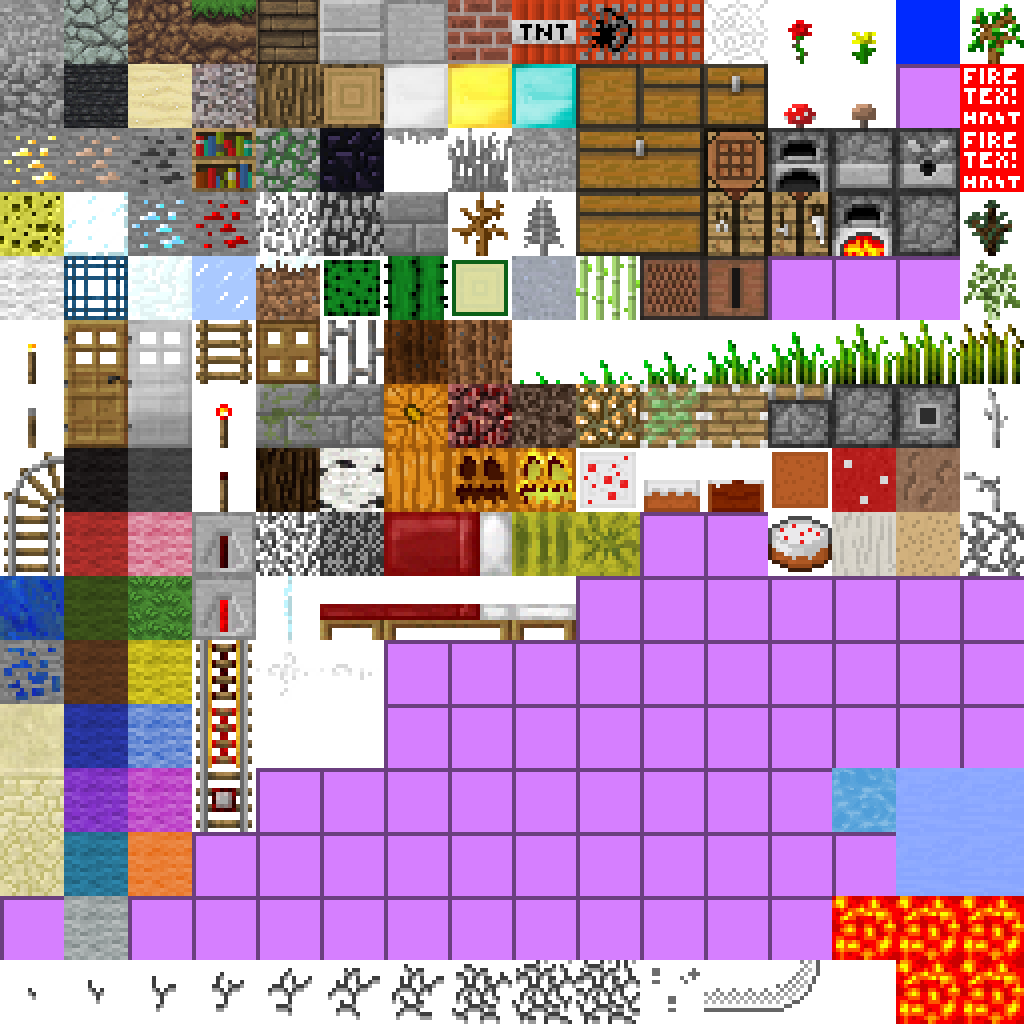
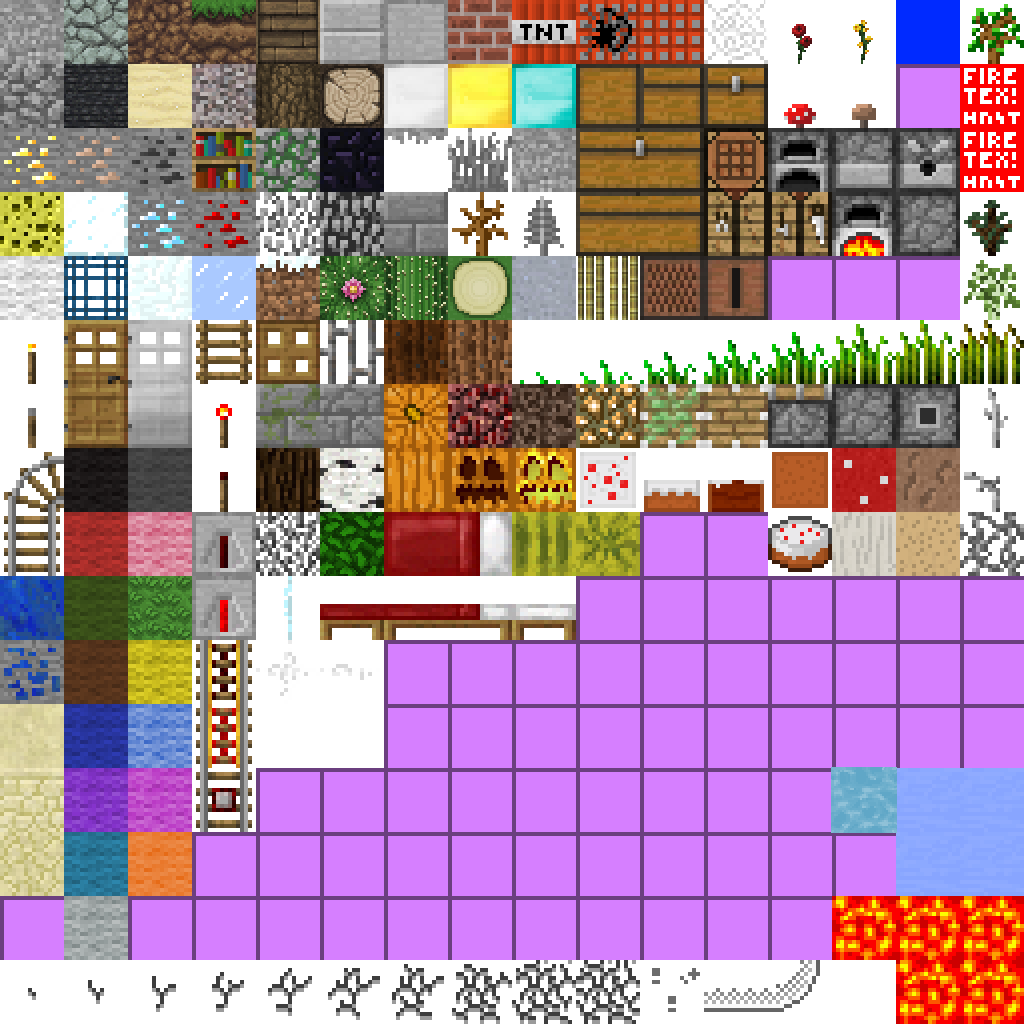
Added starter Vegetation Generation

diff --git a/src/minecraftrenderer/Chunk.java b/src/minecraftrenderer/Chunk.java
@@ -56,11 +56,11 @@ public class Chunk {
         for(int x = 0; x < CHUNK_SIZE; x++) {
             for(int y = 0; y < CHUNK_SIZE; y++) {
                 for(int z = 0; z < CHUNK_SIZE; z++) {
-                    if (y == 0) {
+                    if (y <= 2) {
                         Blocks[x][y][z] = new Block(Block.BlockType.BlockType_Bedrock);
-                    } else if ((y < (CHUNK_SIZE / 4)) && (y >= 1)) {
+                    } else if ((y < (CHUNK_SIZE / 4)) && (y >= 3)) {
                         Blocks[x][y][z] = new Block(Block.BlockType.BlockType_Stone);
-                    }  else if ((y < CHUNK_SIZE)  && (y >= (CHUNK_SIZE / 4))) {
+                    } else if ((y < CHUNK_SIZE)  && (y >= (CHUNK_SIZE / 4))) {
                         Blocks[x][y][z] = new Block(Block.BlockType.BlockType_Dirt);
                     } else {
                         Blocks[x][y][z] = new Block(Block.BlockType.BlockType_Bedrock);
@@ -149,8 +149,9 @@ public class Chunk {
                         }
                     } else if (maxHeight < sandLevel && y > maxHeight - 8) {
                         for (float i = y; i <= maxHeight; i++) {
-                            Blocks[(int) x][(int) i][(int) z].setID(Block.BlockType.BlockType_Sand);
                             
+                            Blocks[(int) x][(int) i][(int) z].setID(Block.BlockType.BlockType_Sand);  
+
                             VertexPositionData.put(createCube(
                                 (float) (startX + x * CUBE_LENGTH),
                                 (float) (i * CUBE_LENGTH + (int) (CHUNK_SIZE * .8)),
@@ -159,9 +160,17 @@ public class Chunk {
                                 Blocks[(int) x][(int) i][(int) z])));
                             VertexTextureData.put(createTexCube((float) 0, (float) 0,
                                 Blocks[(int) x][(int) i][(int) z]));
+                            
+                            if((i == sandLevel - 1 || i == sandLevel - 2) && (r.nextInt(750) + 1 == 1)) {
+                                buildCactus((int) x,(int) y + 1,(int) z, Blocks, VertexPositionData, VertexColorData, VertexTextureData); 
+                            }
                         }
-                    }else if (y > maxHeight-1) {
+                    } else if (y > maxHeight-1) {
                         Blocks[(int) x][(int) y][(int) z].setID(Block.BlockType.BlockType_Grass);
+                        
+                        if(r.nextInt(500) + 1 == 1) {
+                            buildTree((int) x,(int) y + 1,(int) z, Blocks, VertexPositionData, VertexColorData, VertexTextureData);
+                        }
                     }
                     
                     VertexPositionData.put(createCube(
@@ -189,6 +198,149 @@ public class Chunk {
         glBindBuffer(GL_ARRAY_BUFFER, VBOTextureHandle);
         glBufferData(GL_ARRAY_BUFFER, VertexTextureData, GL_STATIC_DRAW);
         glBindBuffer(GL_ARRAY_BUFFER, 0);
+    }
+    
+    // method: buildTree
+    // purpose: this method spawns a tree at the given location
+    private void buildTree(int x, int y, int z, Block[][][] Blocks, FloatBuffer VertexPositionData, FloatBuffer VertexColorData, FloatBuffer VertexTextureData) {
+        
+        int xOffset = 0, zOffset = 0;
+        Random r = new Random();
+        
+        if(r.nextInt(100) >= 40) {
+            
+            // Large Tree
+            for(int i = y; i <= y + 6; i++) {
+
+                if(i >= y + 3) {
+
+                    if(i == y + 3 || i == y + 4) {
+                        xOffset = -2;
+                        zOffset = -2;
+                    } else if(i == y + 5 || i == y + 6) {
+                        xOffset = -1;
+                        zOffset = -1;
+                    }
+
+                    for(int j = xOffset; j <= xOffset * -1; j++) {
+
+                        if(x + j < 0 || x + j > 99)
+                            continue;
+
+                        for(int k = zOffset; k <= zOffset * -1; k++) {
+
+                            if(z + k < 0 || z + k > 99)
+                                continue;
+                            if(i == y + 3) {
+                                if((j == -2 && k == -2) || (j == 2 && k == -2) || (j == -2 && k == 2) || (j == 2 && k == 2))
+                                    continue;
+                            }
+                            if(i == y + 6) {
+                                if((j == -1 && k == -1) || (j == 1 && k == -1) || (j == -1 && k == 1) || (j == 1 && k == 1))
+                                    continue;
+                            }
+
+                            Blocks[(int) x + j][(int) i][(int) z + k].setID(Block.BlockType.BlockType_Leaf);
+
+                            VertexPositionData.put(createCube(
+                                (float) (startX + (x + j) * CUBE_LENGTH),
+                                (float) (i * CUBE_LENGTH + (int) (CHUNK_SIZE * .8)),
+                                (float) (startZ + (z + k) * CUBE_LENGTH)));
+                            VertexColorData.put(createCubeVertexCol(getCubeColor(
+                                Blocks[(int) x + j][(int) i][(int) z + k])));
+                            VertexTextureData.put(createTexCube((float) 0, (float) 0,
+                                Blocks[(int) x + j][(int) i][(int) z + k]));
+                        }
+                    }
+                }
+
+                Blocks[(int) x][(int) i][(int) z].setID(Block.BlockType.BlockType_Log);    
+
+                VertexPositionData.put(createCube(
+                    (float) (startX + x * CUBE_LENGTH),
+                    (float) (i * CUBE_LENGTH + (int) (CHUNK_SIZE * .8)),
+                    (float) (startZ + z * CUBE_LENGTH)));
+                VertexColorData.put(createCubeVertexCol(getCubeColor(
+                    Blocks[(int) x][(int) i][(int) z])));
+                VertexTextureData.put(createTexCube((float) 0, (float) 0,
+                    Blocks[(int) x][(int) i][(int) z])); 
+            }    
+        } else {
+
+            // Small Tree
+            for(int i = y; i <= y + 4; i++) {
+
+                if(i >= y + 2) {
+
+                    if(i == y + 2 || i == y + 3) {
+                        xOffset = -1;
+                        zOffset = -1;
+                    } else if(i == y + 4) {
+                        xOffset = 0;
+                        zOffset = 0;
+                    }
+
+                    for(int j = xOffset; j <= xOffset * -1; j++) {
+
+                        if(x + j < 0 || x + j > 99)
+                            continue;
+
+                        for(int k = zOffset; k <= zOffset * -1; k++) {
+
+                            if(z + k < 0 || z + k > 99)
+                                continue;
+                            if(i == y + 2) {
+                                if((j == -1 && k == -1) || (j == 1 && k == -1) || (j == -1 && k == 1) || (j == 1 && k == 1))
+                                    continue;
+                            }
+                            if(i == y + 6) {
+                                if((j == -1 && k == -1) || (j == 1 && k == -1) || (j == -1 && k == 1) || (j == 1 && k == 1))
+                                    continue;
+                            }
+
+                            Blocks[(int) x + j][(int) i][(int) z + k].setID(Block.BlockType.BlockType_Leaf);
+
+                            VertexPositionData.put(createCube(
+                                (float) (startX + (x + j) * CUBE_LENGTH),
+                                (float) (i * CUBE_LENGTH + (int) (CHUNK_SIZE * .8)),
+                                (float) (startZ + (z + k) * CUBE_LENGTH)));
+                            VertexColorData.put(createCubeVertexCol(getCubeColor(
+                                Blocks[(int) x + j][(int) i][(int) z + k])));
+                            VertexTextureData.put(createTexCube((float) 0, (float) 0,
+                                Blocks[(int) x + j][(int) i][(int) z + k]));
+                        }
+                    }
+                }
+
+                Blocks[(int) x][(int) i][(int) z].setID(Block.BlockType.BlockType_Log);    
+
+                VertexPositionData.put(createCube(
+                    (float) (startX + x * CUBE_LENGTH),
+                    (float) (i * CUBE_LENGTH + (int) (CHUNK_SIZE * .8)),
+                    (float) (startZ + z * CUBE_LENGTH)));
+                VertexColorData.put(createCubeVertexCol(getCubeColor(
+                    Blocks[(int) x][(int) i][(int) z])));
+                VertexTextureData.put(createTexCube((float) 0, (float) 0,
+                    Blocks[(int) x][(int) i][(int) z])); 
+            }    
+        }
+    }
+    
+    private void buildCactus(int x, int y, int z, Block[][][] Blocks, FloatBuffer VertexPositionData, FloatBuffer VertexColorData, FloatBuffer VertexTextureData) {
+        
+        for(int i = y; i < y + 3; i++) {
+                
+            Blocks[(int) x][(int) i][(int) z].setID(Block.BlockType.BlockType_Cactus);
+
+            VertexPositionData.put(createCube(
+                (float) (startX + x * CUBE_LENGTH),
+                (float) (i * CUBE_LENGTH + (int) (CHUNK_SIZE * .8)),
+                (float) (startZ + z * CUBE_LENGTH)));
+            VertexColorData.put(createCubeVertexCol(getCubeColor(
+                Blocks[(int) x][(int) i][(int) z])));
+            VertexTextureData.put(createTexCube((float) 0, (float) 0,
+                Blocks[(int) x][(int) i][(int) z]));      
+        }              
     }
     
     // method: createCubeVertexCol
@@ -255,7 +407,7 @@ public class Chunk {
     public static float[] createTexCube(float x, float y, Block block) {
         
         float offset = (1024f/16) / 1024f;
-        float clip = 0.0075f;
+        float clip = 0.00095f;
         
         switch(block.getID()) {
 
@@ -468,7 +620,112 @@ public class Chunk {
                     x + offset*2 - clip, y + offset*2 - clip,
                     x + offset*1 + clip, y + offset*2 - clip
                 };
-                    
+                
+            // Log
+            case 6:
+                return new float[] {
+                    // BOTTOM QUAD (DOWN=+Y)
+                    x + offset*6 - clip, y + offset*2 - clip,
+                    x + offset*5 + clip, y + offset*2 - clip,
+                    x + offset*5 + clip, y + offset*1 + clip,
+                    x + offset*6 - clip, y + offset*1 + clip,
+                    // TOP
+                    x + offset*6 - clip, y + offset*2 - clip,
+                    x + offset*5 + clip, y + offset*2 - clip,
+                    x + offset*5 + clip, y + offset*1 + clip,
+                    x + offset*6 - clip, y + offset*1 + clip,
+                    // FRONT QUAD
+                    x + offset*4 + clip, y + offset*1 + clip,
+                    x + offset*5 - clip, y + offset*1 + clip,
+                    x + offset*5 - clip, y + offset*2 - clip,
+                    x + offset*4 + clip, y + offset*2 - clip,
+                    // BACK QUAD
+                    x + offset*5 - clip, y + offset*2 - clip,
+                    x + offset*4 + clip, y + offset*2 - clip,
+                    x + offset*4 + clip, y + offset*1 + clip,
+                    x + offset*5 - clip, y + offset*1 + clip,
+                    // LEFT QUAD
+                    x + offset*4 + clip, y + offset*1 + clip,
+                    x + offset*5 - clip, y + offset*1 + clip,
+                    x + offset*5 - clip, y + offset*2 - clip,
+                    x + offset*4 + clip, y + offset*2 - clip,
+                    // RIGHT QUAD
+                    x + offset*4 + clip, y + offset*1 + clip,
+                    x + offset*5 - clip, y + offset*1 + clip,
+                    x + offset*5 - clip, y + offset*2 - clip,
+                    x + offset*4 + clip, y + offset*2 - clip
+                };
+            
+            // Leaf
+            case 7:
+                return new float[] {
+                    // BOTTOM QUAD (DOWN=+Y)
+                    x + offset*5 + clip, y + offset*8 + clip,
+                    x + offset*6 - clip, y + offset*8 + clip,
+                    x + offset*6 - clip, y + offset*9 - clip,
+                    x + offset*5 + clip, y + offset*9 - clip,
+                    // TOP
+                    x + offset*5 + clip, y + offset*8 + clip,
+                    x + offset*6 - clip, y + offset*8 + clip,
+                    x + offset*6 - clip, y + offset*9 - clip,
+                    x + offset*5 + clip, y + offset*9 - clip,
+                    // FRONT QUAD
+                    x + offset*5 + clip, y + offset*8 + clip,
+                    x + offset*6 - clip, y + offset*8 + clip,
+                    x + offset*6 - clip, y + offset*9 - clip,
+                    x + offset*5 + clip, y + offset*9 - clip,
+                    // BACK QUAD
+                    x + offset*6 - clip, y + offset*9 - clip,
+                    x + offset*5 + clip, y + offset*9 - clip,
+                    x + offset*5 + clip, y + offset*8 + clip,
+                    x + offset*6 - clip, y + offset*8 + clip,
+                    // LEFT QUAD
+                    x + offset*5 + clip, y + offset*8 + clip,
+                    x + offset*6 - clip, y + offset*8 + clip,
+                    x + offset*6 - clip, y + offset*9 - clip,
+                    x + offset*5 + clip, y + offset*9 - clip,
+                    // RIGHT QUAD
+                    x + offset*5 + clip, y + offset*8 + clip,
+                    x + offset*6 - clip, y + offset*8 + clip,
+                    x + offset*6 - clip, y + offset*9 - clip,
+                    x + offset*5 + clip, y + offset*9 - clip
+                };
+                
+            // Cactus
+            case 8:
+                return new float[] {
+                    // BOTTOM QUAD (DOWN=+Y)
+                    x + offset*5 + clip, y + offset*4 + clip,
+                    x + offset*6 - clip, y + offset*4 + clip,
+                    x + offset*6 - clip, y + offset*5 - clip,
+                    x + offset*5 + clip, y + offset*5 - clip,
+                    // TOP
+                    x + offset*7 + clip, y + offset*4 + clip,
+                    x + offset*8 - clip, y + offset*4 + clip,
+                    x + offset*8 - clip, y + offset*5 - clip,
+                    x + offset*7 + clip, y + offset*5 - clip,
+                    // FRONT QUAD
+                    x + offset*6 + clip, y + offset*4 + clip,
+                    x + offset*7 - clip, y + offset*4 + clip,
+                    x + offset*7 - clip, y + offset*5 - clip,
+                    x + offset*6 + clip, y + offset*5 - clip,
+                    // BACK QUAD
+                    x + offset*7 - clip, y + offset*5 - clip,
+                    x + offset*6 + clip, y + offset*5 - clip,
+                    x + offset*6 + clip, y + offset*4 + clip,
+                    x + offset*7 - clip, y + offset*4 + clip,
+                    // LEFT QUAD
+                    x + offset*6 + clip, y + offset*4 + clip,
+                    x + offset*7 - clip, y + offset*4 + clip,
+                    x + offset*7 - clip, y + offset*5 - clip,
+                    x + offset*6 + clip, y + offset*5 - clip,
+                    // RIGHT QUAD
+                    x + offset*6 + clip, y + offset*4 + clip,
+                    x + offset*7 - clip, y + offset*4 + clip,
+                    x + offset*7 - clip, y + offset*5 - clip,
+                    x + offset*6 + clip, y + offset*5 - clip
+                };
+                
             default:
                 return new float[] {
                     // BOTTOM QUAD (DOWN=+Y)

diff --git a/src/minecraftrenderer/Block.java b/src/minecraftrenderer/Block.java
@@ -4,7 +4,7 @@
 * class: CS 4450 - Computer Graphics
 *
 * assignment: final program
-* date last modified: 4/15/2019
+* date last modified: 4/16/2019
 *
 * purpose: Data structure to store basic information for each block,
 * specifically the block's Type, active state, and coordinates.
@@ -28,7 +28,13 @@ public class Block {
         BlockType_Water(2),
         BlockType_Dirt(3),
         BlockType_Stone(4),
-        BlockType_Bedrock(5);
+        BlockType_Bedrock(5),
+        BlockType_Log(6),
+        BlockType_Leaf(7),
+        BlockType_Cactus(8),
+        BlockType_Poppy(9),
+        BlockType_Dandelion(10),
+        BlockType_SugarCane(11);
         
         private int BlockID;
         

diff --git a/src/minecraftrenderer/FPCameraController.java b/src/minecraftrenderer/FPCameraController.java
@@ -188,8 +188,9 @@ public class FPCameraController {
         }
         
         // Generate new chunk
-        if(Keyboard.isKeyDown(Keyboard.KEY_F1))
+        if(Keyboard.isKeyDown(Keyboard.KEY_F1)) {
             chunk = new Chunk(0, 0, 0);
+        }
     }
     
     // method: gameLoop
